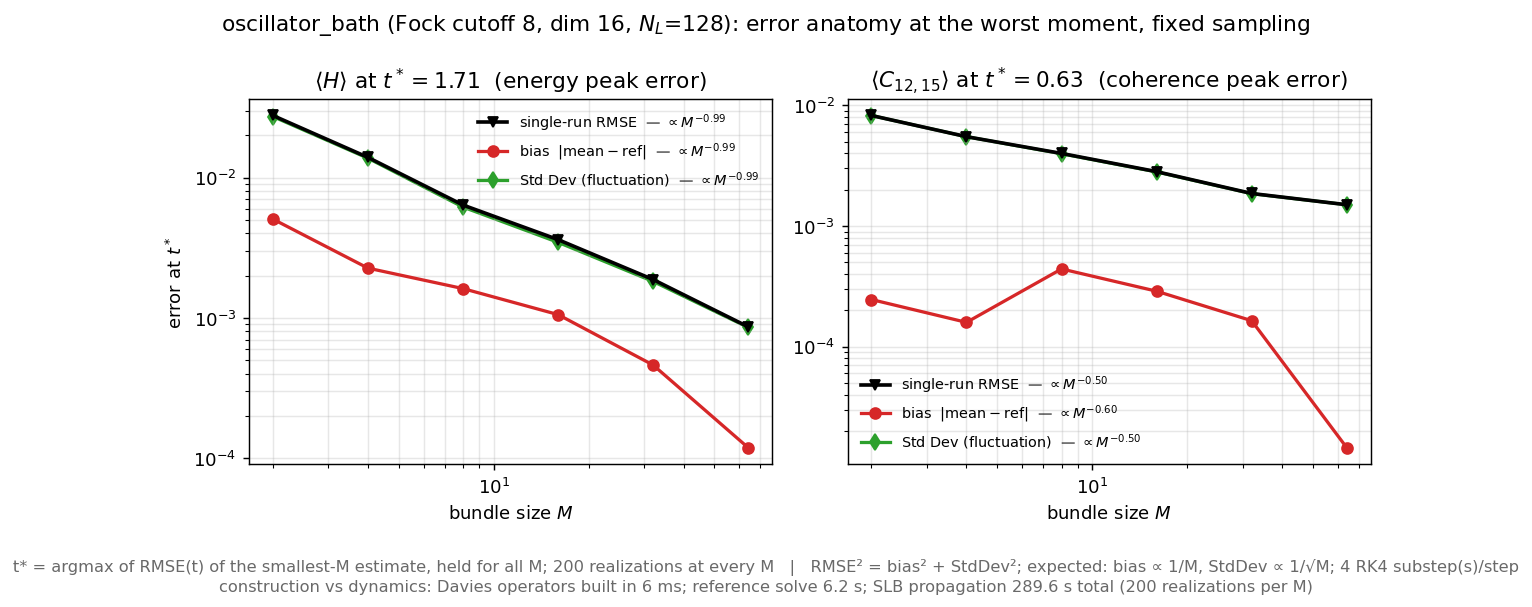
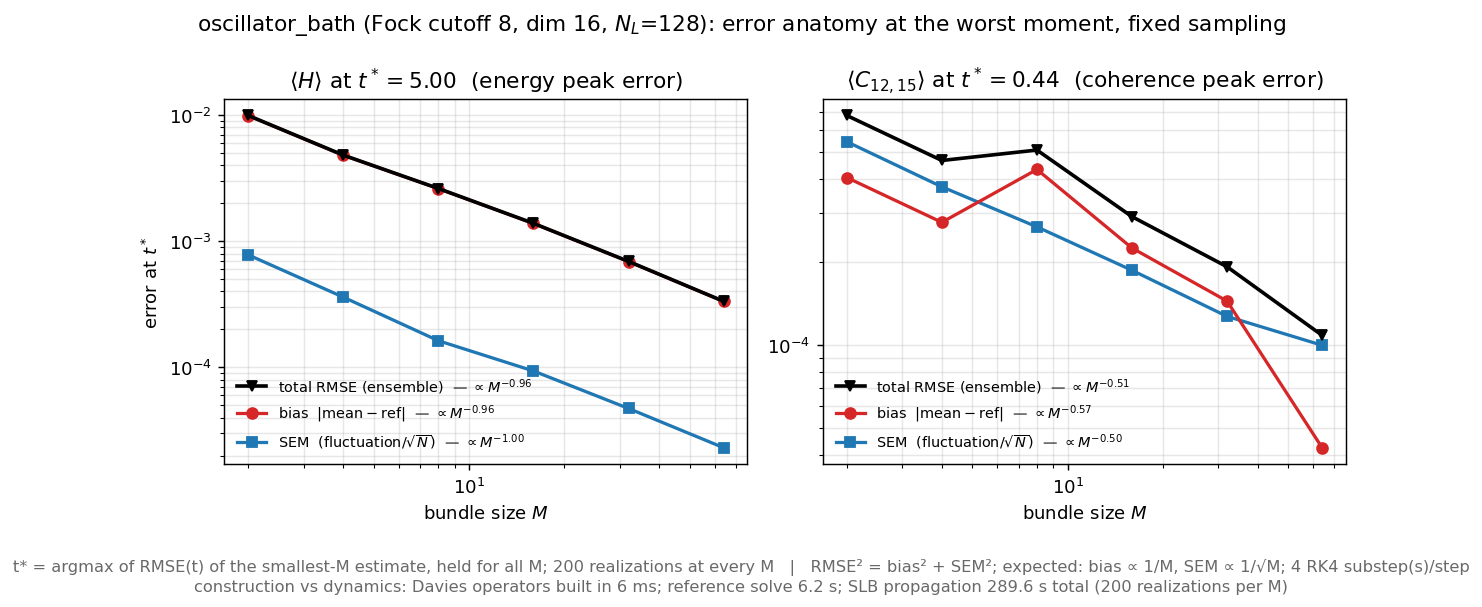
relsuts 1

diff --git a/benchmarks/plot_accuracy_vs_M.py b/benchmarks/plot_accuracy_vs_M.py
@@ -39,9 +39,9 @@ from common import (
 # --- CONFIGURATION (TOGGLES FOR DECOMPOSITION PLOT) ---
 PLOT_RMSE = True
 PLOT_BIAS = True
-PLOT_SEM  = False
-PLOT_STD  = True
-USE_SINGLE_RUN_RMSE = True # If True: RMSE = sqrt(bias^2 + StdDev^2). If False: RMSE = sqrt(bias^2 + SEM^2)
+PLOT_SEM  = True
+PLOT_STD  = False
+USE_SINGLE_RUN_RMSE = False # If True: RMSE = sqrt(bias^2 + StdDev^2). If False: RMSE = sqrt(bias^2 + SEM^2)
 # ------------------------------------------------------
 
 def _timing_caption(doc):
